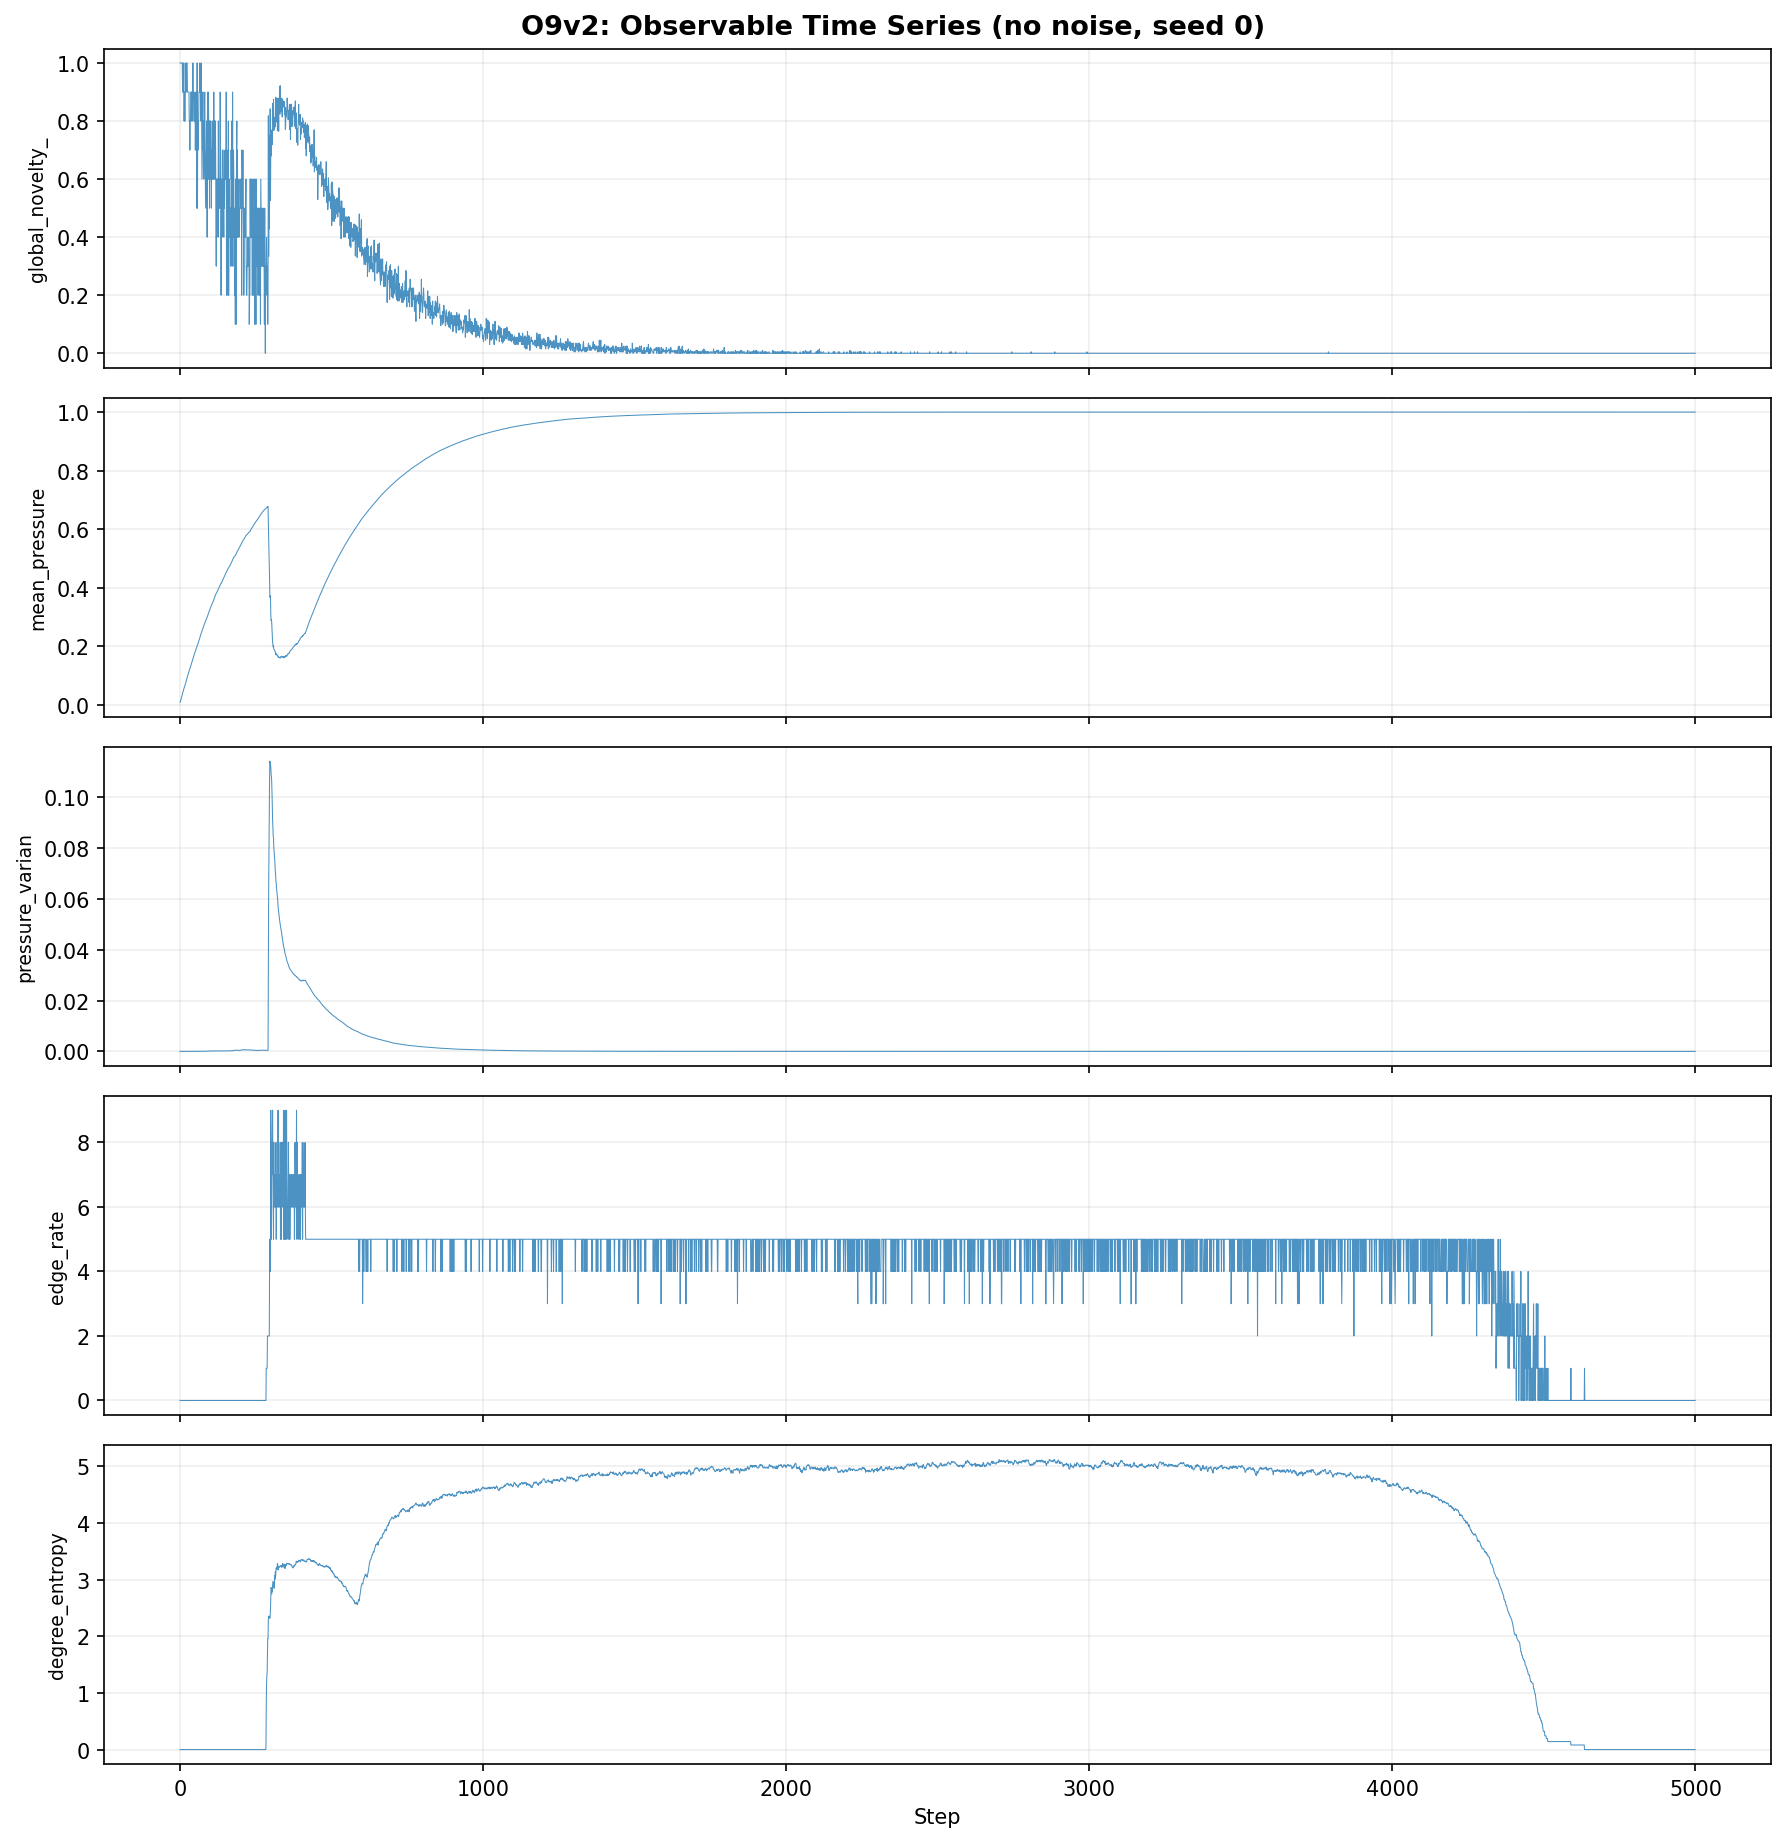
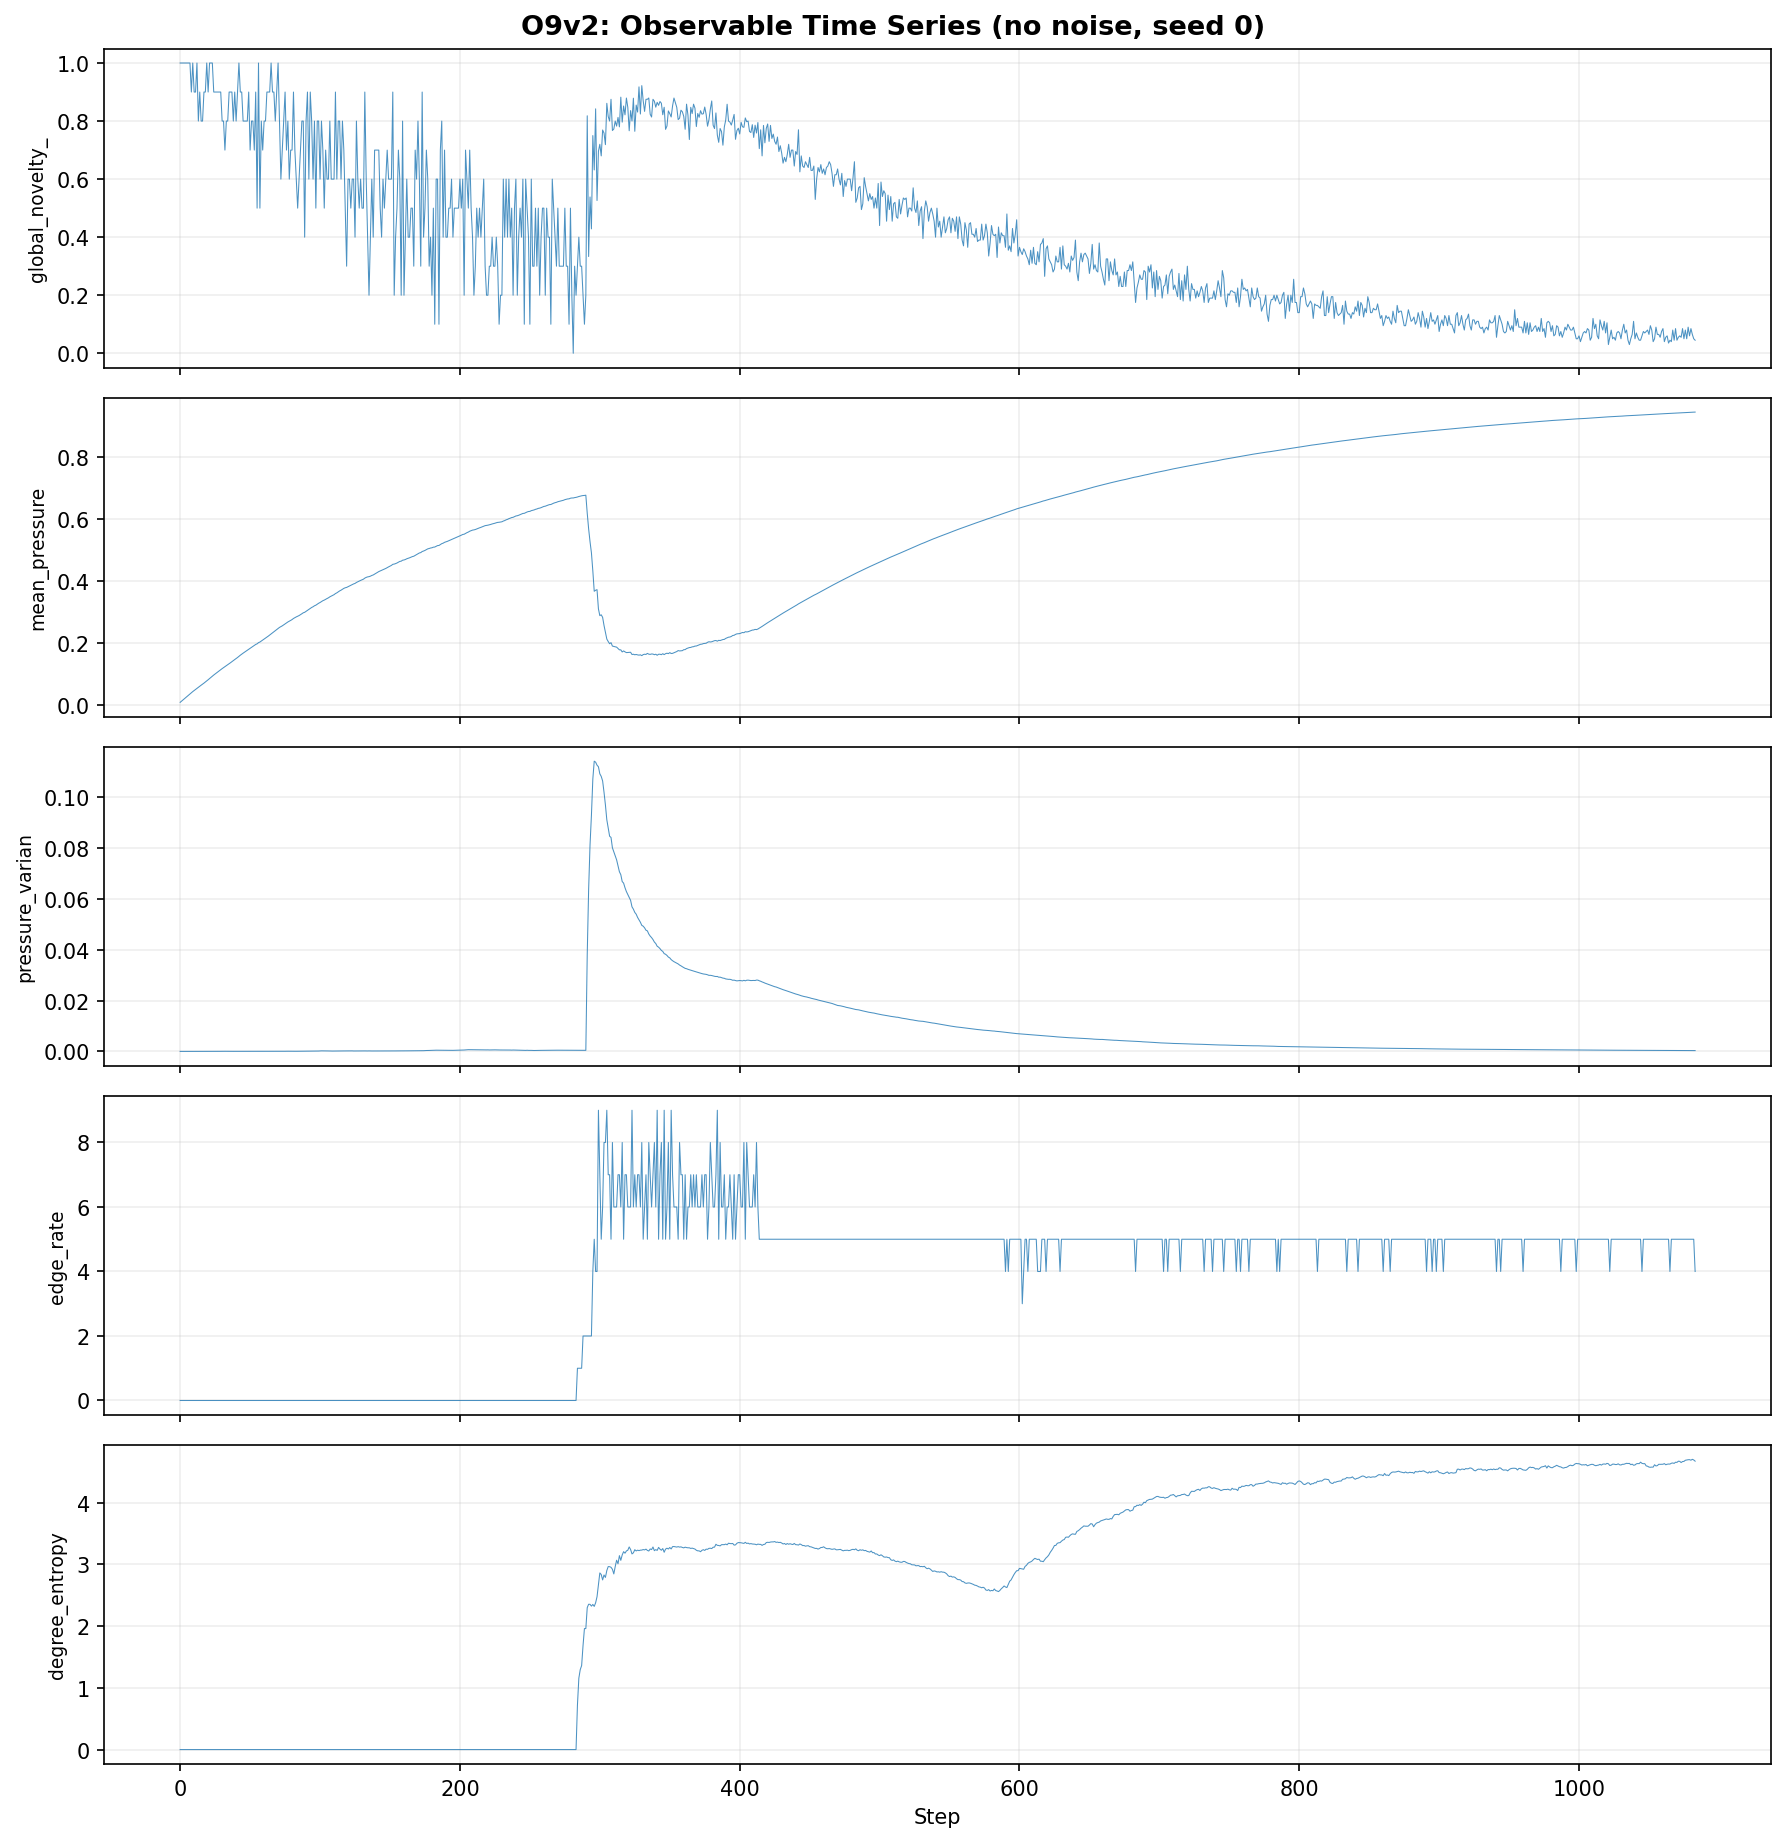
Add time-budgeted runs to O9v2 experiment
Replace fixed max_steps=5000 with time_budget parameter. First run
calibrates steps/second, then all subsequent runs use the calibrated
step count. --quick now takes ~60s instead of ~30min.

CLI: --time <seconds> (default: 60 quick, 300 full)

diff --git a/simulation/experiments/o9_spectral.py b/simulation/experiments/o9_spectral.py
@@ -271,17 +271,24 @@ def detrend_signal(ts):
 def run_antiloop_with_observables(
     mem_bits, max_nodes, initial_n, seed, hash_fn,
     pressure_threshold, spawn_prob, max_stressed_per_step,
-    max_steps, noise_type="none", noise_rate=0.0
+    max_steps=None, time_budget=None,
+    noise_type="none", noise_rate=0.0
 ):
     """Run anti-loop growth recording graph-level observables.
 
     Reimplements engine.run_antiloop growth logic with:
     - Observable recording at every step
     - Support for mutation and dropout noise
-    - Full max_steps run (growth + post-cap)
+    - Time-budgeted or step-limited run
+
+    Either max_steps or time_budget must be provided.
+    If time_budget is set, runs as many steps as fit in that many seconds.
 
     Returns (G, growth_log, observables_dict).
     """
+    if max_steps is None and time_budget is None:
+        max_steps = 5000
+
     rng = np.random.default_rng(seed)
     G, nodes = init_ring_graph(initial_n, mem_bits, rng)
 
@@ -290,7 +297,15 @@ def run_antiloop_with_observables(
     growth_log.record(0, G.number_of_nodes(), G.number_of_edges())
     recorder = ObservableRecorder()
 
-    for step in range(1, max_steps + 1):
+    t_start = time.time()
+    step_num = 0
+    while True:
+        step_num += 1
+        if max_steps is not None and step_num > max_steps:
+            break
+        if time_budget is not None and step_num > 1:
+            if time.time() - t_start >= time_budget:
+                break
         prev_visited = {nid: len(nodes[nid].visited) for nid in G.nodes()}
 
         # Table mutation noise (before stepping)
@@ -356,7 +371,7 @@ def run_antiloop_with_observables(
         edges_added = G.number_of_edges() - edges_before
 
         recorder.record(G, nodes, prev_visited, edges_added)
-        growth_log.record(step, G.number_of_nodes(), G.number_of_edges())
+        growth_log.record(step_num, G.number_of_nodes(), G.number_of_edges())
 
     return G, growth_log, recorder.to_arrays()
 
@@ -478,9 +493,15 @@ def check_consistency(log, mem_bits, max_nodes, max_steps, seed=42):
 # Main experiment
 # ============================================================
 
-def run(n_seeds=10, max_nodes=200, mem_bits=8, max_steps=5000,
+def run(n_seeds=10, max_nodes=200, mem_bits=8, time_budget=300,
         noise_conditions=None, out_dir=None, progress=None):
-    """Run the O9v2 spectral analysis experiment."""
+    """Run the O9v2 spectral analysis experiment.
+
+    Args:
+        time_budget: total wall-clock seconds for the experiment.
+            The first run calibrates steps/second, then all subsequent
+            runs use the calibrated step count. Default 300s (5 min).
+    """
 
     if noise_conditions is None:
         noise_conditions = NOISE_CONDITIONS
@@ -506,24 +527,56 @@ def run(n_seeds=10, max_nodes=200, mem_bits=8, max_steps=5000,
         else:
             print(msg)
 
+    # ----------------------------------------------------------
+    # Calibration: run one antiloop sim with time budget to find
+    # how many steps we can do per unit of time, then fix step
+    # count for all remaining runs.
+    # ----------------------------------------------------------
+    n_runs = len(noise_conditions) * n_seeds  # antiloop runs (control reuses growth_log length)
+    # Reserve 10% of budget for validation, consistency, plotting
+    sim_budget = time_budget * 0.90
+    # Each "work unit" = 1 antiloop run + 1 control run (~2x time of antiloop alone)
+    time_per_antiloop = sim_budget / (n_runs * 2.0)
+    time_per_antiloop = max(time_per_antiloop, 1.0)  # at least 1 second
+
     log("=" * 70)
     log("O9v2: Graph-Level Spectral Analysis of Anti-Loop Growth")
     log("=" * 70)
-    log(f"Seeds: {n_seeds}  |  Nodes: {max_nodes}  |  Memory: {mem_bits}-bit  |  Steps: {max_steps}")
+    log(f"Seeds: {n_seeds}  |  Nodes: {max_nodes}  |  Memory: {mem_bits}-bit")
+    log(f"Time budget: {time_budget}s  |  Per-run budget: {time_per_antiloop:.1f}s")
     log(f"Noise conditions: {[nc['name'] for nc in noise_conditions]}")
     log(f"Observables: {OBSERVABLE_NAMES}")
     log(f"Device: {device if device else 'CPU (numpy)'}")
     log()
 
+    # Calibration run: time-budgeted first run to discover step count
+    log("Calibrating steps/second...")
+    t_cal = time.time()
+    _, cal_log, _ = run_antiloop_with_observables(
+        mem_bits=mem_bits, max_nodes=max_nodes, initial_n=10,
+        seed=999, hash_fn=HASH_XOR, pressure_threshold=0.7,
+        spawn_prob=0.3, max_stressed_per_step=5,
+        time_budget=time_per_antiloop,
+        noise_type="none", noise_rate=0.0
+    )
+    cal_elapsed = time.time() - t_cal
+    cal_steps = len(cal_log.steps) - 1
+    steps_per_sec = cal_steps / max(cal_elapsed, 0.01)
+    # Use calibrated step count for all runs (consistent across conditions)
+    max_steps = max(100, cal_steps)
+    log(f"  {cal_steps} steps in {cal_elapsed:.1f}s ({steps_per_sec:.0f} steps/s)")
+    log(f"  Using {max_steps} steps for all runs")
+    log()
+
     # ----------------------------------------------------------
     # Validation
     # ----------------------------------------------------------
-    validate_fitting(log, device, n_samples=max_steps)
+    validate_fitting(log, device, n_samples=max(max_steps, 500))
 
     # ----------------------------------------------------------
-    # Consistency check
+    # Consistency check (use small step count to be fast)
     # ----------------------------------------------------------
-    check_consistency(log, mem_bits, max_nodes, max_steps=min(max_steps, 2000))
+    check_consistency(log, mem_bits, max_nodes, max_steps=min(max_steps, 500))
 
     # ----------------------------------------------------------
     # Main sweep: noise_condition x seeds
@@ -553,7 +606,7 @@ def run(n_seeds=10, max_nodes=200, mem_bits=8, max_steps=5000,
             seed = i
             t0 = time.time()
 
-            # Anti-loop run
+            # Anti-loop run (fixed step count from calibration)
             G, growth_log, observables = run_antiloop_with_observables(
                 mem_bits=mem_bits, max_nodes=max_nodes, initial_n=10,
                 seed=seed, hash_fn=HASH_XOR, pressure_threshold=0.7,
@@ -562,7 +615,7 @@ def run(n_seeds=10, max_nodes=200, mem_bits=8, max_steps=5000,
                 noise_type=nc["noise_type"], noise_rate=nc["noise_rate"]
             )
 
-            # Control run
+            # Control run (follows growth_log length)
             ctrl_observables = run_growing_random_with_observables(
                 growth_log, seed=seed + 10000, mem_bits=mem_bits,
                 noise_type=nc["noise_type"], noise_rate=nc["noise_rate"]

diff --git a/simulation/run.py b/simulation/run.py
@@ -66,6 +66,8 @@ def main():
                         help="Max nodes per graph (default: 500)")
     parser.add_argument("--mem", type=int, default=8,
                         help="FSM memory bits (default: 8)")
+    parser.add_argument("--time", type=int, default=None,
+                        help="Time budget in seconds (default: 60 quick, 300 full)")
 
     args = parser.parse_args()
 
@@ -89,7 +91,7 @@ def main():
         kwargs["n_seeds"] = n_seeds
         kwargs["max_nodes"] = min(args.nodes, 200)
         kwargs["mem_bits"] = args.mem
-        kwargs["max_steps"] = 5000
+        kwargs["time_budget"] = args.time or (60 if args.quick else 300)
 
     if args.gui:
         from simulation.gui import run_with_gui
